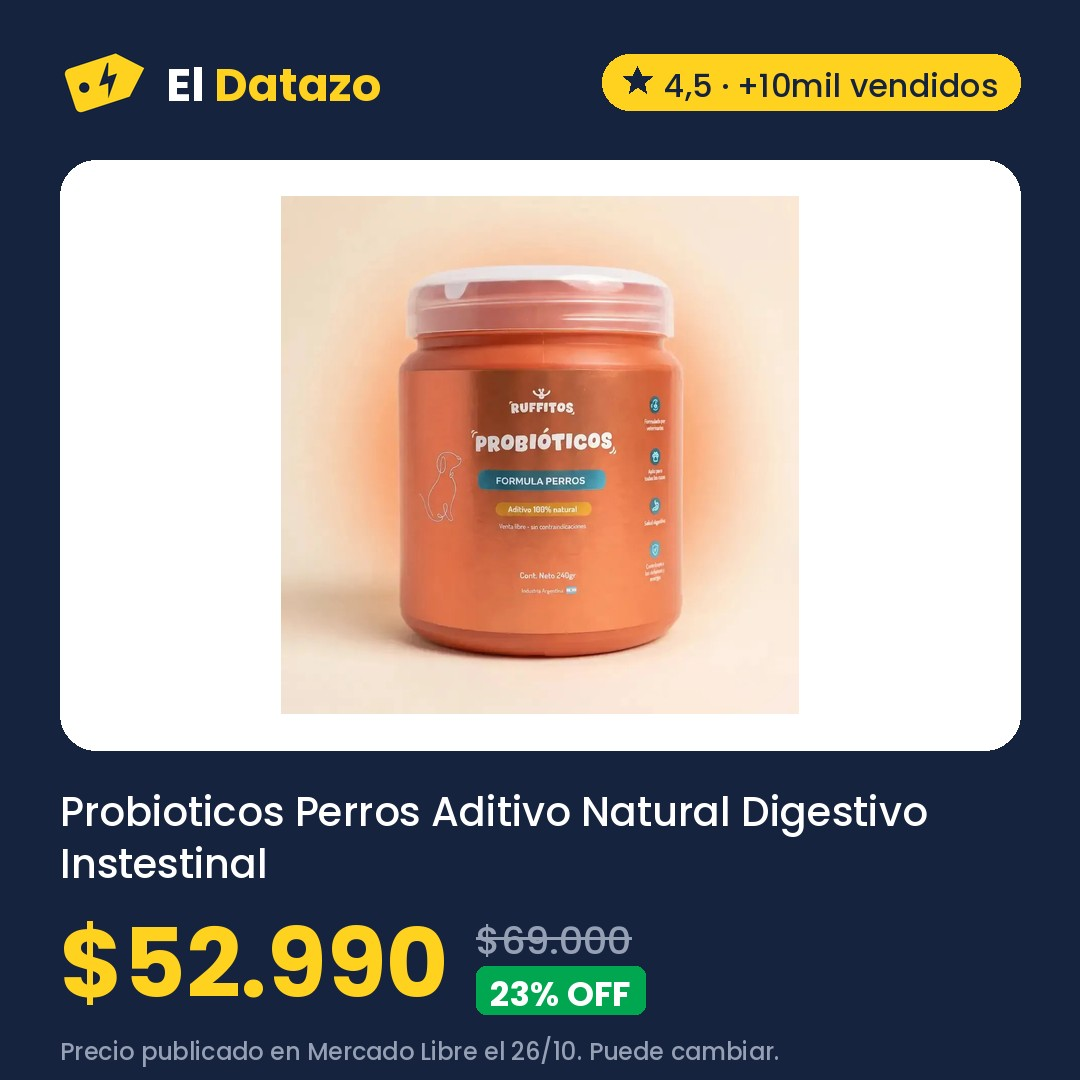
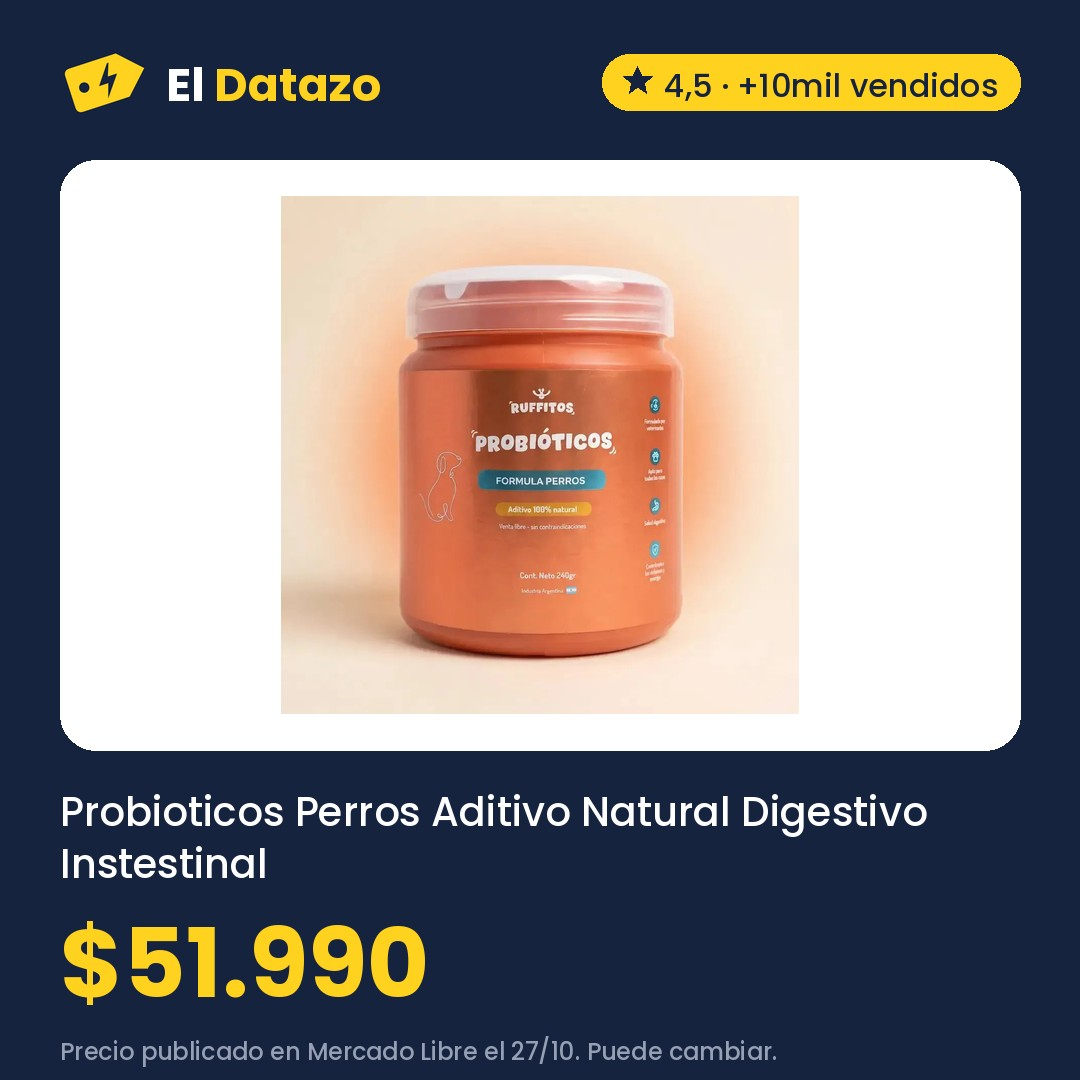
Ofertas 2026-10-27 23:31

Changed region(s): [[0.1528, 0.8556, 0.7028, 1.0]]

diff --git a/index.html b/index.html
@@ -292,7 +292,7 @@ padding:3px 9px;border-radius:999px}
       <p class="hero-precio">$32.999</p>
       <p class="hero-antes"><s>$69.999</s> <span class="off">53% OFF</span></p>
       
-      <p class="nota">Precio del 24/10 en Mercado Libre, revisado hoy a las 16:34. Puede cambiar.</p>
+      <p class="nota">Precio del 24/10 en Mercado Libre, revisado hoy a las 20:31. Puede cambiar.</p>
       <a class="boton oscuro" href="https://meli.la/2Gbd1ds" rel="sponsored noopener" target="_blank"
          data-oferta="MLA23521180">Ver oferta en Mercado Libre</a>
       <a class="compartir" href="https://wa.me/?text=Mir%C3%A1%20este%20datazo%3A%20Pintura%20Latex%20Ingenia%20X%2020%20L%20Interior%20Exterior%20Cubritiva%20-%20Blanco%20a%20%2432.999%20https%3A//eldatazo.com.ar/%23MLA23521180" target="_blank" rel="noopener" data-estilo="texto"><svg viewBox="0 0 24 24" width="16" height="16" aria-hidden="true"><path d="M4 20l1.3-4A8 8 0 1 1 8 18.7L4 20z" fill="none" stroke="currentColor" stroke-width="2" stroke-linejoin="round"/></svg> Compartir por WhatsApp</a>
@@ -300,20 +300,18 @@ padding:3px 9px;border-radius:999px}
   </section>
       
   <section class="franja-bajo" aria-labelledby="bajo-titulo">
-    <h2 id="bajo-titulo">⬇ Bajaron de precio <span>13</span></h2>
+    <h2 id="bajo-titulo">⬇ Bajaron de precio <span>12</span></h2>
     <ul class="franja-lista">
         <li><a href="#MLA16048275"><img src="img/MLA16048275.jpg" alt="" loading="lazy">
           <span><b>Eucerin Sun Oil Control Protector solar facial Toque Seco FPS 50 x 50 ml</b><span class="ahora">$37.651</span><s>$45.181</s> <span class="bajo">⬇ Bajó</span></span></a></li>
+        <li><a href="#MLA26522167"><img src="img/MLA26522167.jpg" alt="" loading="lazy">
+          <span><b>Equipo de Alta Frecuencia Gadnic LF60 Antienvejecimiento Antiacné Reafirmante Facial 4 Electrodos</b><span class="ahora">$45.699</span><s>$49.999</s> <span class="bajo">⬇ Bajó</span></span></a></li>
         <li><a href="#MLA19974075"><img src="img/MLA19974075.jpg" alt="" loading="lazy">
           <span><b>Bomba Pluvius Presurizadora 100 W Automática 2 Baños</b><span class="ahora">$62.006</span><s>$66.659</s> <span class="bajo">⬇ Bajó</span></span></a></li>
         <li><a href="#MLA25363194"><img src="img/MLA25363194.jpg" alt="" loading="lazy">
           <span><b>Old Prince Premium gato adulto 7.5 kg</b><span class="ahora">$40.100</span> <span class="bajo">⬇ Volvió</span></span></a></li>
         <li><a href="#MLA28052339"><img src="img/MLA28052339.jpg" alt="" loading="lazy">
           <span><b>Pañales Pampers deluxe protection XXG x 54 unidades</b><span class="ahora">$42.190</span> <span class="bajo">⬇ Volvió</span></span></a></li>
-        <li><a href="#MLA30422545"><img src="img/MLA30422545.jpg" alt="" loading="lazy">
-          <span><b>Reloj Casio Hombre A-158wa Vintage Luz Correa Autoajustable Malla Plateado Bisel Gris Fondo P</b><span class="ahora">$51.000</span> <span class="bajo">⬇ Volvió</span></span></a></li>
-        <li><a href="#MLA32162099"><img src="img/MLA32162099.jpg" alt="" loading="lazy">
-          <span><b>Reloj Casio Vintage A158WA-1DF digital plateado con cronógrafo y calendario</b><span class="ahora">$51.000</span> <span class="bajo">⬇ Volvió</span></span></a></li>
         <li><a href="https://meli.la/2bhn3SU" rel="sponsored noopener" target="_blank" data-oferta="MLA29031346"><img src="https://http2.mlstatic.com/D_Q_NP_930271-MLA99501053204_112025-AB.webp" alt="" loading="lazy" referrerpolicy="no-referrer">
           <span><b>Kit X 2 Handy Baofeng Radio Walkie Talkie Bf888s 16ch Uhf Bandas de frecuencia 16 Color Negro</b><span class="ahora">$31.448</span><s>$45.000</s>
           <span class="bajo">⬇ Bajó</span></span></a></li>
@@ -331,6 +329,9 @@ padding:3px 9px;border-radius:999px}
           <span class="bajo">⬇ Bajó</span></span></a></li>
         <li><a href="https://meli.la/1bvAc5G" rel="sponsored noopener" target="_blank" data-oferta="MLA41149389"><img src="https://http2.mlstatic.com/D_Q_NP_607503-MLA115610455682_092026-AB.webp" alt="" loading="lazy" referrerpolicy="no-referrer">
           <span><b>Auriculares Xiaomi Redmi Buds 6 Play Inalámbricos Bluetooth 5.4 36 h In-ear Blanco</b><span class="ahora">$22.500</span><s>$25.450</s>
+          <span class="bajo">⬇ Bajó</span></span></a></li>
+        <li><a href="https://meli.la/28b98gK" rel="sponsored noopener" target="_blank" data-oferta="MLA16596813"><img src="https://http2.mlstatic.com/D_Q_NP_978080-MLA99388425642_112025-AB.webp" alt="" loading="lazy" referrerpolicy="no-referrer">
+          <span><b>Tarjeta de memoria SanDisk SDSQUNR-064G-GN3MA Ultra con adaptador SD 64GB</b><span class="ahora">$30.451</span><s>$32.499</s>
           <span class="bajo">⬇ Bajó</span></span></a></li>
     </ul>
   </section>
@@ -351,8 +352,8 @@ padding:3px 9px;border-radius:999px}
             <option value="precio">Más baratas</option>
           </select></label>
       </div>
-      <div class="chips" role="group" aria-label="Rubro"><button type="button" data-filtro="" aria-pressed="true">Todo</button><button type="button" data-filtro="MLA1500" aria-pressed="false">Construcción <span>4</span></button><button type="button" data-filtro="MLA1499" aria-pressed="false">Industrias y Oficinas <span>3</span></button><button type="button" data-filtro="MLA1071" aria-pressed="false">Mascotas <span>3</span></button><button type="button" data-filtro="MLA5725" aria-pressed="false">Accesorios para Vehículos <span>2</span></button><button type="button" data-filtro="MLA1246" aria-pressed="false">Belleza y Cuidado Personal <span>2</span></button><button type="button" data-filtro="MLA3937" aria-pressed="false">Joyas y Relojes <span>2</span></button><button type="button" data-filtro="MLA1132" aria-pressed="false">Juegos y Juguetes <span>2</span></button><button type="button" data-filtro="MLA1512" aria-pressed="false">Agro <span>1</span></button><button type="button" data-filtro="MLA1368" aria-pressed="false">Arte, Librería y Mercería <span>1</span></button><button type="button" data-filtro="MLA1384" aria-pressed="false">Bebés <span>1</span></button><button type="button" data-filtro="MLA1276" aria-pressed="false">Deportes y Fitness <span>1</span></button><button type="button" data-filtro="MLA407134" aria-pressed="false">Herramientas <span>1</span></button><button type="button" data-filtro="MLA409431" aria-pressed="false">Salud y Equipamiento Médico <span>1</span></button></div>
-      <p class="contador" aria-live="polite"><span data-cuenta>24</span> ofertas</p>
+      <div class="chips" role="group" aria-label="Rubro"><button type="button" data-filtro="" aria-pressed="true">Todo</button><button type="button" data-filtro="MLA1500" aria-pressed="false">Construcción <span>4</span></button><button type="button" data-filtro="MLA1499" aria-pressed="false">Industrias y Oficinas <span>3</span></button><button type="button" data-filtro="MLA1071" aria-pressed="false">Mascotas <span>3</span></button><button type="button" data-filtro="MLA5725" aria-pressed="false">Accesorios para Vehículos <span>2</span></button><button type="button" data-filtro="MLA1246" aria-pressed="false">Belleza y Cuidado Personal <span>2</span></button><button type="button" data-filtro="MLA1132" aria-pressed="false">Juegos y Juguetes <span>2</span></button><button type="button" data-filtro="MLA1512" aria-pressed="false">Agro <span>1</span></button><button type="button" data-filtro="MLA1368" aria-pressed="false">Arte, Librería y Mercería <span>1</span></button><button type="button" data-filtro="MLA1384" aria-pressed="false">Bebés <span>1</span></button><button type="button" data-filtro="MLA1276" aria-pressed="false">Deportes y Fitness <span>1</span></button><button type="button" data-filtro="MLA407134" aria-pressed="false">Herramientas <span>1</span></button><button type="button" data-filtro="MLA409431" aria-pressed="false">Salud y Equipamiento Médico <span>1</span></button></div>
+      <p class="contador" aria-live="polite"><span data-cuenta>22</span> ofertas</p>
     </div>
     <div class="grilla activas">
       <article class="tarjeta destacada" id="MLA16048275" data-rubro="MLA1246" data-off="50" data-pub="2026-10-27" data-quedan="7" data-precio="37651" data-bajo="18" data-texto="eucerin sun oil control protector solar facial toque seco fps 50 x 50 ml">
@@ -364,7 +365,7 @@ padding:3px 9px;border-radius:999px}
           <h3>Eucerin Sun Oil Control Protector solar facial Toque Seco FPS 50 x 50 ml</h3>
           <p class="precios "><span class="precio">$37.651</span><s class="antes">$75.302</s><span class="off">50% OFF</span></p>
           <p class="bajo">Antes $45.181 el 22/10 · 17% menos</p>
-          <p class="nota">Precio de hoy a las 16:34 en Mercado Libre. Puede cambiar.</p>
+          <p class="nota">Precio de hoy a las 20:31 en Mercado Libre. Puede cambiar.</p>
           <div class="acciones">
             <a class="boton" href="https://meli.la/2Zpeewk" rel="sponsored noopener" target="_blank"
                data-oferta="MLA16048275">Ver oferta</a>
@@ -382,7 +383,7 @@ padding:3px 9px;border-radius:999px}
           <h3>Old Prince Premium gato adulto 7.5 kg</h3>
           <p class="precios "><span class="precio">$40.100</span></p>
           <p class="bajo">Había terminado y volvió al mismo precio</p>
-          <p class="nota">Precio de hoy a las 16:34 en Mercado Libre. Puede cambiar.</p>
+          <p class="nota">Precio de hoy a las 20:31 en Mercado Libre. Puede cambiar.</p>
           <div class="acciones">
             <a class="boton" href="https://meli.la/2zmmmFA" rel="sponsored noopener" target="_blank"
                data-oferta="MLA25363194">Ver oferta</a>
@@ -400,47 +401,11 @@ padding:3px 9px;border-radius:999px}
           <h3>Pañales Pampers deluxe protection XXG x 54 unidades</h3>
           <p class="precios "><span class="precio">$42.190</span><s class="antes">$43.430</s><span class="off">3% OFF</span></p>
           <p class="bajo">Había terminado y volvió al mismo precio</p>
-          <p class="nota">Precio de hoy a las 16:34 en Mercado Libre. Puede cambiar.</p>
+          <p class="nota">Precio de hoy a las 20:31 en Mercado Libre. Puede cambiar.</p>
           <div class="acciones">
             <a class="boton" href="https://meli.la/2kAwAe6" rel="sponsored noopener" target="_blank"
                data-oferta="MLA28052339">Ver oferta</a>
             <a class="compartir" href="https://wa.me/?text=Mir%C3%A1%20este%20datazo%3A%20Pa%C3%B1ales%20Pampers%20deluxe%20protection%20XXG%20x%2054%20unidades%20a%20%2442.190%20https%3A//eldatazo.com.ar/%23MLA28052339" target="_blank" rel="noopener"
-               aria-label="Compartir por WhatsApp" title="Compartir por WhatsApp"><svg viewBox="0 0 24 24" width="16" height="16" aria-hidden="true"><path d="M4 20l1.3-4A8 8 0 1 1 8 18.7L4 20z" fill="none" stroke="currentColor" stroke-width="2" stroke-linejoin="round"/></svg></a>
-          </div>
-        </div>
-      </article>
-      <article class="tarjeta destacada" id="MLA30422545" data-rubro="MLA3937" data-off="0" data-pub="2026-10-27" data-quedan="7" data-precio="51000" data-bajo="1" data-texto="reloj casio hombre a-158wa vintage luz correa autoajustable malla plateado bisel gris fondo p">
-        <div class="tarjeta-foto">
-          <img src="img/MLA30422545.jpg" alt="Reloj Casio Hombre A-158wa Vintage Luz Correa Autoajustable Malla Plateado Bisel Gris Fondo P" loading="lazy" width="1080" height="1080">
-        </div>
-        <div class="cuerpo">
-          <div class="fila"><span class="sello baja">⬇ Volvió</span><span class="sello">Quedan 7 días</span><span class="rubro">Joyas y Relojes</span></div>
-          <h3>Reloj Casio Hombre A-158wa Vintage Luz Correa Autoajustable Malla Plateado Bisel Gris Fondo P</h3>
-          <p class="precios "><span class="precio">$51.000</span></p>
-          <p class="bajo">Había terminado y volvió al mismo precio</p>
-          <p class="nota">Precio de hoy a las 16:34 en Mercado Libre. Puede cambiar.</p>
-          <div class="acciones">
-            <a class="boton" href="https://meli.la/2o65PxL" rel="sponsored noopener" target="_blank"
-               data-oferta="MLA30422545">Ver oferta</a>
-            <a class="compartir" href="https://wa.me/?text=Mir%C3%A1%20este%20datazo%3A%20Reloj%20Casio%20Hombre%20A-158wa%20Vintage%20Luz%20Correa%20Autoajustable%20Malla%20Plateado%20Bisel%20Gris%20Fondo%20P%20a%20%2451.000%20https%3A//eldatazo.com.ar/%23MLA30422545" target="_blank" rel="noopener"
-               aria-label="Compartir por WhatsApp" title="Compartir por WhatsApp"><svg viewBox="0 0 24 24" width="16" height="16" aria-hidden="true"><path d="M4 20l1.3-4A8 8 0 1 1 8 18.7L4 20z" fill="none" stroke="currentColor" stroke-width="2" stroke-linejoin="round"/></svg></a>
-          </div>
-        </div>
-      </article>
-      <article class="tarjeta destacada" id="MLA32162099" data-rubro="MLA3937" data-off="0" data-pub="2026-10-27" data-quedan="7" data-precio="51000" data-bajo="1" data-texto="reloj casio vintage a158wa-1df digital plateado con cronógrafo y calendario">
-        <div class="tarjeta-foto">
-          <img src="img/MLA32162099.jpg" alt="Reloj Casio Vintage A158WA-1DF digital plateado con cronógrafo y calendario" loading="lazy" width="1080" height="1080">
-        </div>
-        <div class="cuerpo">
-          <div class="fila"><span class="sello baja">⬇ Volvió</span><span class="sello">Quedan 7 días</span><span class="rubro">Joyas y Relojes</span></div>
-          <h3>Reloj Casio Vintage A158WA-1DF digital plateado con cronógrafo y calendario</h3>
-          <p class="precios "><span class="precio">$51.000</span></p>
-          <p class="bajo">Había terminado y volvió al mismo precio</p>
-          <p class="nota">Precio de hoy a las 16:34 en Mercado Libre. Puede cambiar.</p>
-          <div class="acciones">
-            <a class="boton" href="https://meli.la/1Z3v7SJ" rel="sponsored noopener" target="_blank"
-               data-oferta="MLA32162099">Ver oferta</a>
-            <a class="compartir" href="https://wa.me/?text=Mir%C3%A1%20este%20datazo%3A%20Reloj%20Casio%20Vintage%20A158WA-1DF%20digital%20plateado%20con%20cron%C3%B3grafo%20y%20calendario%20a%20%2451.000%20https%3A//eldatazo.com.ar/%23MLA32162099" target="_blank" rel="noopener"
                aria-label="Compartir por WhatsApp" title="Compartir por WhatsApp"><svg viewBox="0 0 24 24" width="16" height="16" aria-hidden="true"><path d="M4 20l1.3-4A8 8 0 1 1 8 18.7L4 20z" fill="none" stroke="currentColor" stroke-width="2" stroke-linejoin="round"/></svg></a>
           </div>
         </div>
@@ -454,7 +419,7 @@ padding:3px 9px;border-radius:999px}
           <h3>Calculadora Cientifica Casio Fx 570la Cw Classwiz Negra</h3>
           <p class="precios "><span class="precio">$59.174</span></p>
           
-          <p class="nota">Precio del 26/10 en Mercado Libre, revisado hoy a las 16:34. Puede cambiar.</p>
+          <p class="nota">Precio del 26/10 en Mercado Libre, revisado hoy a las 20:31. Puede cambiar.</p>
           <div class="acciones">
             <a class="boton" href="https://meli.la/2iggYJ9" rel="sponsored noopener" target="_blank"
                data-oferta="MLA22724798">Ver oferta</a>
@@ -472,7 +437,7 @@ padding:3px 9px;border-radius:999px}
           <h3>Colchón Inflable Doble Klimber + Inflador + 2 Almohadas</h3>
           <p class="precios "><span class="precio">$45.777</span><s class="antes">$69.499</s><span class="off">34% OFF</span></p>
           
-          <p class="nota">Precio del 26/10 en Mercado Libre, revisado hoy a las 16:34. Puede cambiar.</p>
+          <p class="nota">Precio del 26/10 en Mercado Libre, revisado hoy a las 20:31. Puede cambiar.</p>
           <div class="acciones">
             <a class="boton" href="https://meli.la/19eMhmv" rel="sponsored noopener" target="_blank"
                data-oferta="MLA22764635">Ver oferta</a>
@@ -490,7 +455,7 @@ padding:3px 9px;border-radius:999px}
           <h3>Rotuladora Portátil Niimbot Etiquetadora Manual Impresora Color Blanco D110</h3>
           <p class="precios "><span class="precio">$41.040</span><s class="antes">$58.900</s><span class="off">30% OFF</span></p>
           
-          <p class="nota">Precio del 26/10 en Mercado Libre, revisado hoy a las 16:34. Puede cambiar.</p>
+          <p class="nota">Precio del 26/10 en Mercado Libre, revisado hoy a las 20:31. Puede cambiar.</p>
           <div class="acciones">
             <a class="boton" href="https://meli.la/1czSFp6" rel="sponsored noopener" target="_blank"
                data-oferta="MLA45260672">Ver oferta</a>
@@ -499,20 +464,20 @@ padding:3px 9px;border-radius:999px}
           </div>
         </div>
       </article>
-      <article class="tarjeta" id="MLA59797283" data-rubro="MLA1071" data-off="23" data-pub="2026-10-26" data-quedan="6" data-precio="52990" data-bajo="0" data-texto="probioticos perros aditivo natural digestivo instestinal alergia ruffitos">
+      <article class="tarjeta" id="MLA59797283" data-rubro="MLA1071" data-off="0" data-pub="2026-10-26" data-quedan="6" data-precio="51990" data-bajo="0" data-texto="probioticos perros aditivo natural digestivo instestinal alergia ruffitos">
         <div class="tarjeta-foto">
           <img src="img/MLA59797283.jpg" alt="Probioticos Perros Aditivo Natural Digestivo Instestinal Alergia Ruffitos" loading="lazy" width="1080" height="1080">
         </div>
         <div class="cuerpo">
           <div class="fila"><span class="sello">Quedan 6 días</span><span class="rubro">Mascotas</span></div>
           <h3>Probioticos Perros Aditivo Natural Digestivo Instestinal Alergia Ruffitos</h3>
-          <p class="precios "><span class="precio">$52.990</span><s class="antes">$69.000</s><span class="off">23% OFF</span></p>
+          <p class="precios "><span class="precio">$51.990</span></p>
           
-          <p class="nota">Precio del 26/10 en Mercado Libre, revisado hoy a las 16:34. Puede cambiar.</p>
+          <p class="nota">Precio de hoy a las 20:31 en Mercado Libre. Puede cambiar.</p>
           <div class="acciones">
             <a class="boton" href="https://meli.la/2MYNaoX" rel="sponsored noopener" target="_blank"
                data-oferta="MLA59797283">Ver oferta</a>
-            <a class="compartir" href="https://wa.me/?text=Mir%C3%A1%20este%20datazo%3A%20Probioticos%20Perros%20Aditivo%20Natural%20Digestivo%20Instestinal%20Alergia%20Ruffitos%20a%20%2452.990%20https%3A//eldatazo.com.ar/%23MLA59797283" target="_blank" rel="noopener"
+            <a class="compartir" href="https://wa.me/?text=Mir%C3%A1%20este%20datazo%3A%20Probioticos%20Perros%20Aditivo%20Natural%20Digestivo%20Instestinal%20Alergia%20Ruffitos%20a%20%2451.990%20https%3A//eldatazo.com.ar/%23MLA59797283" target="_blank" rel="noopener"
                aria-label="Compartir por WhatsApp" title="Compartir por WhatsApp"><svg viewBox="0 0 24 24" width="16" height="16" aria-hidden="true"><path d="M4 20l1.3-4A8 8 0 1 1 8 18.7L4 20z" fill="none" stroke="currentColor" stroke-width="2" stroke-linejoin="round"/></svg></a>
           </div>
         </div>
@@ -526,7 +491,7 @@ padding:3px 9px;border-radius:999px}
           <h3>Bomba Periferica Elevadora Agua Vasser 1/2 Hp 20mts caudal 30 l/m</h3>
           <p class="precios "><span class="precio">$42.419</span><s class="antes">$51.449</s><span class="off">18% OFF</span></p>
           
-          <p class="nota">Precio de hoy a las 16:34 en Mercado Libre. Puede cambiar.</p>
+          <p class="nota">Precio de hoy a las 20:31 en Mercado Libre. Puede cambiar.</p>
           <div class="acciones">
             <a class="boton" href="https://meli.la/2nztThe" rel="sponsored noopener" target="_blank"
                data-oferta="MLA19576694">Ver oferta</a>
@@ -544,7 +509,7 @@ padding:3px 9px;border-radius:999px}
           <h3>Bomba Pluvius Presurizadora 100 W Automática 2 Baños</h3>
           <p class="precios "><span class="precio">$62.006</span><s class="antes">$81.899</s><span class="off">24% OFF</span></p>
           <p class="bajo">Antes $66.659 el 24/10 · 7% menos</p>
-          <p class="nota">Precio de hoy a las 16:34 en Mercado Libre. Puede cambiar.</p>
+          <p class="nota">Precio de hoy a las 20:31 en Mercado Libre. Puede cambiar.</p>
           <div class="acciones">
             <a class="boton" href="https://meli.la/2a5DkY2" rel="sponsored noopener" target="_blank"
                data-oferta="MLA19974075">Ver oferta</a>
@@ -562,7 +527,7 @@ padding:3px 9px;border-radius:999px}
           <h3>Equipo Pistola Pintar Eléctrica Latex 450w TOTAL Acabado Profesional sin Esfuerzo</h3>
           <p class="precios "><span class="precio">$56.340</span><s class="antes">$105.990</s><span class="off">47% OFF</span></p>
           
-          <p class="nota">Precio del 24/10 en Mercado Libre, revisado hoy a las 16:34. Puede cambiar.</p>
+          <p class="nota">Precio del 24/10 en Mercado Libre, revisado hoy a las 20:31. Puede cambiar.</p>
           <div class="acciones">
             <a class="boton" href="https://meli.la/2TeggF7" rel="sponsored noopener" target="_blank"
                data-oferta="MLA22620660">Ver oferta</a>
@@ -580,7 +545,7 @@ padding:3px 9px;border-radius:999px}
           <h3>Masajeador Cervical Eléctrico Portatil Inalambrico Batería Recargable Usb Femmto Relajación Cuello Espalda Lumbar</h3>
           <p class="precios "><span class="precio">$70.699</span><s class="antes">$100.000</s><span class="off">29% OFF</span></p>
           
-          <p class="nota">Precio del 22/10 en Mercado Libre, revisado hoy a las 16:34. Puede cambiar.</p>
+          <p class="nota">Precio del 22/10 en Mercado Libre, revisado hoy a las 20:31. Puede cambiar.</p>
           <div class="acciones">
             <a class="boton" href="https://meli.la/2DfwhAa" rel="sponsored noopener" target="_blank"
                data-oferta="MLA24127896">Ver oferta</a>
@@ -598,7 +563,7 @@ padding:3px 9px;border-radius:999px}
           <h3>Taladro Atornillador Inalámbrico Branx Bateria 20v Litio Color Accesorios Maletin HyperBolt20</h3>
           <p class="precios "><span class="precio">$58.999</span><s class="antes">$120.000</s><span class="off">51% OFF</span></p>
           
-          <p class="nota">Precio del 24/10 en Mercado Libre, revisado hoy a las 16:34. Puede cambiar.</p>
+          <p class="nota">Precio del 24/10 en Mercado Libre, revisado hoy a las 20:31. Puede cambiar.</p>
           <div class="acciones">
             <a class="boton" href="https://meli.la/2xk9W87" rel="sponsored noopener" target="_blank"
                data-oferta="MLA24983473">Ver oferta</a>
@@ -607,20 +572,20 @@ padding:3px 9px;border-radius:999px}
           </div>
         </div>
       </article>
-      <article class="tarjeta" id="MLA26522167" data-rubro="MLA1246" data-off="49" data-pub="2026-10-24" data-quedan="4" data-precio="49999" data-bajo="0" data-texto="equipo de alta frecuencia gadnic lf60 antienvejecimiento antiacné reafirmante facial 4 electrodos">
+      <article class="tarjeta destacada" id="MLA26522167" data-rubro="MLA1246" data-off="48" data-pub="2026-10-24" data-quedan="4" data-precio="45699" data-bajo="10" data-texto="equipo de alta frecuencia gadnic lf60 antienvejecimiento antiacné reafirmante facial 4 electrodos">
         <div class="tarjeta-foto">
           <img src="img/MLA26522167.jpg" alt="Equipo de Alta Frecuencia Gadnic LF60 Antienvejecimiento Antiacné Reafirmante Facial 4 Electrodos" loading="lazy" width="1080" height="1080">
         </div>
         <div class="cuerpo">
-          <div class="fila"><span class="sello">Quedan 4 días</span><span class="rubro">Belleza y Cuidado Personal</span></div>
+          <div class="fila"><span class="sello baja">⬇ Bajó</span><span class="sello">Quedan 4 días</span><span class="rubro">Belleza y Cuidado Personal</span></div>
           <h3>Equipo de Alta Frecuencia Gadnic LF60 Antienvejecimiento Antiacné Reafirmante Facial 4 Electrodos</h3>
-          <p class="precios "><span class="precio">$49.999</span><s class="antes">$98.399</s><span class="off">49% OFF</span></p>
-          
-          <p class="nota">Precio del 24/10 en Mercado Libre, revisado hoy a las 16:34. Puede cambiar.</p>
+          <p class="precios "><span class="precio">$45.699</span><s class="antes">$87.999</s><span class="off">48% OFF</span></p>
+          <p class="bajo">Antes $49.999 el 24/10 · 9% menos</p>
+          <p class="nota">Precio de hoy a las 20:31 en Mercado Libre. Puede cambiar.</p>
           <div class="acciones">
             <a class="boton" href="https://meli.la/1guS1ep" rel="sponsored noopener" target="_blank"
                data-oferta="MLA26522167">Ver oferta</a>
-            <a class="compartir" href="https://wa.me/?text=Mir%C3%A1%20este%20datazo%3A%20Equipo%20de%20Alta%20Frecuencia%20Gadnic%20LF60%20Antienvejecimiento%20Antiacn%C3%A9%20Reafirmante%20Facial%204%20Electrodos%20a%20%2449.999%20https%3A//eldatazo.com.ar/%23MLA26522167" target="_blank" rel="noopener"
+            <a class="compartir" href="https://wa.me/?text=Mir%C3%A1%20este%20datazo%3A%20Equipo%20de%20Alta%20Frecuencia%20Gadnic%20LF60%20Antienvejecimiento%20Antiacn%C3%A9%20Reafirmante%20Facial%204%20Electrodos%20a%20%2445.699%20https%3A//eldatazo.com.ar/%23MLA26522167" target="_blank" rel="noopener"
                aria-label="Compartir por WhatsApp" title="Compartir por WhatsApp"><svg viewBox="0 0 24 24" width="16" height="16" aria-hidden="true"><path d="M4 20l1.3-4A8 8 0 1 1 8 18.7L4 20z" fill="none" stroke="currentColor" stroke-width="2" stroke-linejoin="round"/></svg></a>
           </div>
         </div>
@@ -634,7 +599,7 @@ padding:3px 9px;border-radius:999px}
           <h3>Bomba Presurizadora Elevadora 2 Baños Presion Kommberg 120w KB-EP120</h3>
           <p class="precios "><span class="precio">$60.021</span><s class="antes">$79.890</s><span class="off">25% OFF</span></p>
           
-          <p class="nota">Precio del 24/10 en Mercado Libre, revisado hoy a las 16:34. Puede cambiar.</p>
+          <p class="nota">Precio del 24/10 en Mercado Libre, revisado hoy a las 20:31. Puede cambiar.</p>
           <div class="acciones">
             <a class="boton" href="https://meli.la/2eMw9XD" rel="sponsored noopener" target="_blank"
                data-oferta="MLA28254149">Ver oferta</a>
@@ -652,7 +617,7 @@ padding:3px 9px;border-radius:999px}
           <h3>Máquina De Cortar Pelo Para Perros Gadnic CP170 Silenciosa 2000 mAh 4 Peines Acero Inoxidable Autonomía 3,5Hr Carga Rápida</h3>
           <p class="precios "><span class="precio">$68.999</span><s class="antes">$118.749</s><span class="off">42% OFF</span></p>
           
-          <p class="nota">Precio del 24/10 en Mercado Libre, revisado hoy a las 16:34. Puede cambiar.</p>
+          <p class="nota">Precio del 24/10 en Mercado Libre, revisado hoy a las 20:31. Puede cambiar.</p>
           <div class="acciones">
             <a class="boton" href="https://meli.la/1eArodH" rel="sponsored noopener" target="_blank"
                data-oferta="MLA28329206">Ver oferta</a>
@@ -670,7 +635,7 @@ padding:3px 9px;border-radius:999px}
           <h3>Compresor De Aire Portátil Gadnic Inflador Neumáticos 50W Presión 150 PSI Caudal 17 L/min Pantalla Dual LCD Corte Automático Linterna LED Accesorios Para Auto Moto Bicicleta Pelotas</h3>
           <p class="precios "><span class="precio">$57.449</span><s class="antes">$105.599</s><span class="off">46% OFF</span></p>
           
-          <p class="nota">Precio del 24/10 en Mercado Libre, revisado hoy a las 16:34. Puede cambiar.</p>
+          <p class="nota">Precio del 24/10 en Mercado Libre, revisado hoy a las 20:31. Puede cambiar.</p>
           <div class="acciones">
             <a class="boton" href="https://meli.la/2ck1cFk" rel="sponsored noopener" target="_blank"
                data-oferta="MLA43472281">Ver oferta</a>
@@ -688,7 +653,7 @@ padding:3px 9px;border-radius:999px}
           <h3>Plastificadora Laminadora A4 Profesional Frio Calor 230 Mm</h3>
           <p class="precios "><span class="precio">$51.465</span><s class="antes">$79.999</s><span class="off">36% OFF</span></p>
           
-          <p class="nota">Precio del 24/10 en Mercado Libre, revisado hoy a las 16:34. Puede cambiar.</p>
+          <p class="nota">Precio del 24/10 en Mercado Libre, revisado hoy a las 20:31. Puede cambiar.</p>
           <div class="acciones">
             <a class="boton" href="https://meli.la/14bVQFh" rel="sponsored noopener" target="_blank"
                data-oferta="MLA43829530">Ver oferta</a>
@@ -706,7 +671,7 @@ padding:3px 9px;border-radius:999px}
           <h3>Cable Tipo Taller 2x2.5 Mm 50mts Cubierta Negro</h3>
           <p class="precios "><span class="precio">$48.839</span></p>
           
-          <p class="nota">Precio del 24/10 en Mercado Libre, revisado hoy a las 16:34. Puede cambiar.</p>
+          <p class="nota">Precio del 24/10 en Mercado Libre, revisado hoy a las 20:31. Puede cambiar.</p>
           <div class="acciones">
             <a class="boton" href="https://meli.la/1aC3rjr" rel="sponsored noopener" target="_blank"
                data-oferta="MLA50107405">Ver oferta</a>
@@ -724,7 +689,7 @@ padding:3px 9px;border-radius:999px}
           <h3>Bloques Magnéticos Para Armar 100 Piezas Construcción Tiles 100</h3>
           <p class="precios "><span class="precio">$63.832</span><s class="antes">$83.990</s><span class="off">24% OFF</span></p>
           
-          <p class="nota">Precio del 24/10 en Mercado Libre, revisado hoy a las 16:34. Puede cambiar.</p>
+          <p class="nota">Precio del 24/10 en Mercado Libre, revisado hoy a las 20:31. Puede cambiar.</p>
           <div class="acciones">
             <a class="boton" href="https://meli.la/2Hc8YtJ" rel="sponsored noopener" target="_blank"
                data-oferta="MLA63335049">Ver oferta</a>
@@ -742,7 +707,7 @@ padding:3px 9px;border-radius:999px}
           <h3>Juego Cubiertas Moto 110 2.50-17+2.75-14 + Camaras</h3>
           <p class="precios "><span class="precio">$60.776</span><s class="antes">$82.983</s><span class="off">27% OFF</span></p>
           
-          <p class="nota">Precio del 24/10 en Mercado Libre, revisado hoy a las 16:34. Puede cambiar.</p>
+          <p class="nota">Precio del 24/10 en Mercado Libre, revisado hoy a las 20:31. Puede cambiar.</p>
           <div class="acciones">
             <a class="boton" href="https://meli.la/1rzdJj3" rel="sponsored noopener" target="_blank"
                data-oferta="MLA63532450">Ver oferta</a>
@@ -760,7 +725,7 @@ padding:3px 9px;border-radius:999px}
           <h3>Matafuegos Abc 5 Kg Para Comercios</h3>
           <p class="precios "><span class="precio">$78.750</span><s class="antes">$105.000</s><span class="off">25% OFF</span></p>
           
-          <p class="nota">Precio del 24/10 en Mercado Libre, revisado hoy a las 16:34. Puede cambiar.</p>
+          <p class="nota">Precio del 24/10 en Mercado Libre, revisado hoy a las 20:31. Puede cambiar.</p>
           <div class="acciones">
             <a class="boton" href="https://meli.la/2gsNYCX" rel="sponsored noopener" target="_blank"
                data-oferta="MLA68388327">Ver oferta</a>
@@ -778,7 +743,7 @@ padding:3px 9px;border-radius:999px}
           <h3>Figuritas Panini X 25 Sobres World Cup 2026 Mundial 2026</h3>
           <p class="precios "><span class="precio">$50.000</span></p>
           
-          <p class="nota">Precio del 24/10 en Mercado Libre, revisado hoy a las 16:34. Puede cambiar.</p>
+          <p class="nota">Precio del 24/10 en Mercado Libre, revisado hoy a las 20:31. Puede cambiar.</p>
           <div class="acciones">
             <a class="boton" href="https://meli.la/1qNpAcw" rel="sponsored noopener" target="_blank"
                data-oferta="MLA69121337">Ver oferta</a>
@@ -1200,7 +1165,7 @@ padding:3px 9px;border-radius:999px}
     </div>
   </section>
     <div class="envoltura">
-      <details class="terminadas"><summary>Terminadas · ofertas que ya no están vigentes (14)</summary>
+      <details class="terminadas"><summary>Terminadas · ofertas que ya no están vigentes (16)</summary>
 <div class="grilla">
       <article class="tarjeta terminada" id="MLA19719361">
         <div class="tarjeta-foto">
@@ -1266,6 +1231,28 @@ padding:3px 9px;border-radius:999px}
           <p class="nota">Terminó el 27/10. El link sigue abierto: mirá el precio de hoy.</p>
           <a class="boton suave" href="https://meli.la/2PKMfSp" rel="sponsored noopener" target="_blank"
              data-oferta="MLA28878536">Ver precio de hoy</a>
+        </div>
+      </article>
+      <article class="tarjeta terminada" id="MLA30422545">
+        <div class="tarjeta-foto">
+          <img src="img/MLA30422545_terminada.jpg" alt="Reloj Casio Hombre A-158wa Vintage Luz Correa Autoajustable Malla Plateado Bisel Gris Fondo P" loading="lazy" width="1080" height="1080">
+        </div>
+        <div class="cuerpo">
+          <h3>Reloj Casio Hombre A-158wa Vintage Luz Correa Autoajustable Malla Plateado Bisel Gris Fondo P</h3>
+          <p class="nota">Terminó el 27/10. El link sigue abierto: mirá el precio de hoy.</p>
+          <a class="boton suave" href="https://meli.la/2o65PxL" rel="sponsored noopener" target="_blank"
+             data-oferta="MLA30422545">Ver precio de hoy</a>
+        </div>
+      </article>
+      <article class="tarjeta terminada" id="MLA32162099">
+        <div class="tarjeta-foto">
+          <img src="img/MLA32162099_terminada.jpg" alt="Reloj Casio Vintage A158WA-1DF digital plateado con cronógrafo y calendario" loading="lazy" width="1080" height="1080">
+        </div>
+        <div class="cuerpo">
+          <h3>Reloj Casio Vintage A158WA-1DF digital plateado con cronógrafo y calendario</h3>
+          <p class="nota">Terminó el 27/10. El link sigue abierto: mirá el precio de hoy.</p>
+          <a class="boton suave" href="https://meli.la/1Z3v7SJ" rel="sponsored noopener" target="_blank"
+             data-oferta="MLA32162099">Ver precio de hoy</a>
         </div>
       </article>
       <article class="tarjeta terminada" id="MLA37255352">
@@ -1364,7 +1351,7 @@ padding:3px 9px;border-radius:999px}
       <nav class="redes" aria-label="Redes de El Datazo"><a class="red" href="https://www.instagram.com/eldatazo.arg/" target="_blank" rel="noopener"><svg viewBox="0 0 24 24" width="18" height="18" aria-hidden="true"><rect x="3" y="3" width="18" height="18" rx="5" fill="none" stroke="currentColor" stroke-width="2"/><circle cx="12" cy="12" r="4" fill="none" stroke="currentColor" stroke-width="2"/><circle cx="17.5" cy="6.5" r="1.3" fill="currentColor"/></svg> Instagram</a><a class="red" href="https://www.facebook.com/profile.php?id=61595441168911" target="_blank" rel="noopener"><svg viewBox="0 0 24 24" width="18" height="18" aria-hidden="true"><path d="M14 8h3V4h-3a4 4 0 0 0-4 4v2H7v4h3v8h4v-8h3l1-4h-4V8z" fill="currentColor"/></svg> Facebook</a><a class="red" href="https://t.me/eldatazo_ofertas" target="_blank" rel="noopener"><svg viewBox="0 0 24 24" width="18" height="18" aria-hidden="true"><path d="M21 4 3 11l5 2 2 6 3-4 5 4 3-15zM9 13l9-6-7 8" fill="none" stroke="currentColor" stroke-width="1.8" stroke-linejoin="round"/></svg> Telegram</a></nav>
       <p>Los links son de afiliado de Mercado Libre: si comprás, El Datazo puede recibir una comisión, sin que cambie
       tu precio. Los precios son los publicados en Mercado Libre el día indicado y pueden cambiar.</p>
-      <p>Actualizado el 27/10/2026 16:34 (hora argentina) · <a href="privacidad/">Privacidad</a></p>
+      <p>Actualizado el 27/10/2026 20:31 (hora argentina) · <a href="privacidad/">Privacidad</a></p>
     </div>
   </footer>
   
